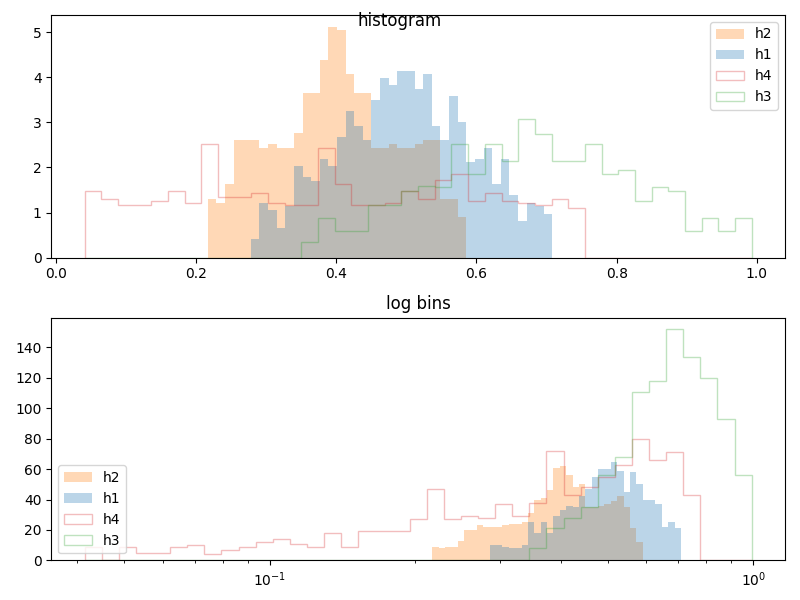
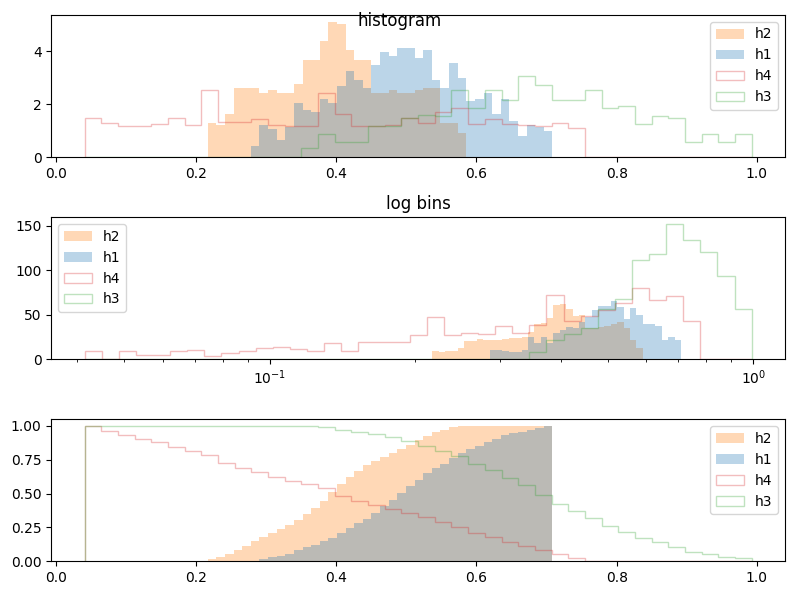
cumulative hist

diff --git a/vitro.cc b/vitro.cc
@@ -440,12 +440,12 @@ Matplot::Matplot(const Figure& fig) {
 
       auto plot = PyObject_GetAttrString(pyax, "hist");
       auto args = Py_BuildValue("(O)", x);
-      auto kwargs = Py_BuildValue("{s:O,s:O,s:d,s:O,s:O,s:s,s:O,s:O}",                      //
+      auto kwargs = Py_BuildValue("{s:O,s:O,s:d,s:O,s:i,s:s,s:O,s:O}",                      //
                                   "weights", (y == nullptr) ? Py_None : y,                  //
                                   "label", labels,                                          //
                                   "alpha", histogram.alpha,                                 //
                                   "bins", bins,                                             //
-                                  "cumulative", histogram.cumulative ? Py_True : Py_False,  //
+                                  "cumulative", histogram.cumulative,                       //
                                   "histtype", histogram.type.c_str(),                       //
                                   "density", histogram.normalize_area ? Py_True : Py_False, //
                                   "stacked", histogram.stacked ? Py_True : Py_False);

diff --git a/example.cc b/example.cc
@@ -81,7 +81,7 @@ void plot3() {
 }
 
 void plot4() {
-  Figure fig(2, 1);
+  Figure fig(3, 1);
   fig.title = "histogram";
 
   std::vector<double> x1;
@@ -163,6 +163,21 @@ void plot4() {
       auto& hist = ax.histogram({"h3", "h4"}, 40, {x3, x4});
       hist.type = "step";
       hist.bin_log_scale = true;
+    }
+  }
+  {
+    auto& ax = fig.axes(3, 1);
+
+    {
+      auto& hist = ax.histogram({"h1", "h2"}, 40, {x1, x2});
+      hist.normalize_area = true;
+      hist.cumulative = 1;
+    }
+    {
+      auto& hist = ax.histogram({"h3", "h4"}, 40, {x3, x4});
+      hist.normalize_area = true;
+      hist.type = "step";
+      hist.cumulative = -1;
     }
   }
 

diff --git a/vitro.h b/vitro.h
@@ -96,7 +96,7 @@ public:
   std::vector<std::string> names;
   double alpha = 0.3;
   bool stacked = false;
-  bool cumulative = false;
+  int cumulative = 0;              // 1, 0, -1
   std::string type = "stepfilled"; //  or "step"
   bool normalize_area = false;
 
